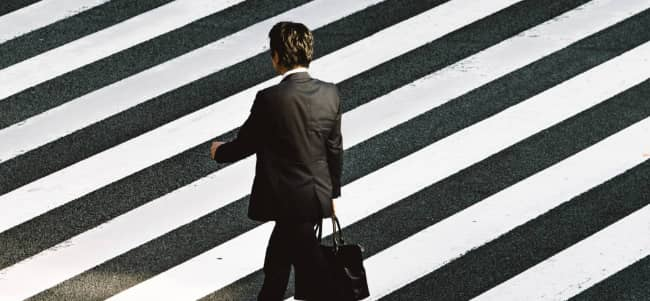
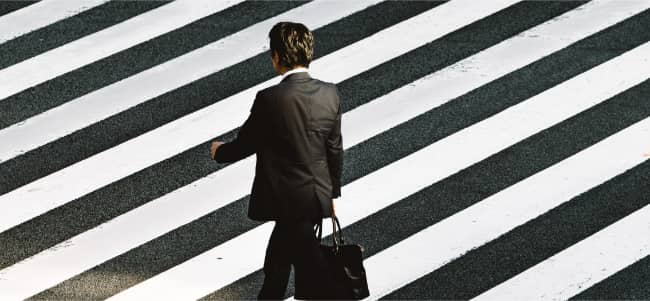
perf(images): prefer use of webp images and use resized images for tablets

diff --git a/index.html b/index.html
@@ -81,8 +81,12 @@
                 media="(max-width: 650px)"
                 srcset="./assets/images/slider/ryoji-iwata.mobile.jpg"
               />
+              <source
+                media="(max-width: 1000px)"
+                srcset="./assets/images/slider/ryoji-iwata.tablet.webp"
+              />
               <img
-                src="./assets/images/slider/ryoji-iwata.jpg"
+                src="./assets/images/slider/ryoji-iwata.webp"
                 class="d-block w-100"
                 alt="..."
               />
@@ -92,10 +96,14 @@
             <picture>
               <source
                 media="(max-width: 650px)"
-                srcset="./assets/images/slider/nicholas-green.mobile.jpg"
+                srcset="./assets/images/slider/nicholas-green.mobile.webp"
+              />
+              <source
+                media="(max-width: 1000px)"
+                srcset="./assets/images/slider/nicholas-green.tablet.webp"
               />
               <img
-                src="./assets/images/slider/nicholas-green.jpg"
+                src="./assets/images/slider/nicholas-green.webp"
                 class="d-block w-100"
                 alt="..."
               />
@@ -105,7 +113,11 @@
             <picture>
               <source
                 media="(max-width: 650px)"
-                srcset="./assets/images/slider/edward-cisneros.mobile.jpg"
+                srcset="./assets/images/slider/edward-cisneros.mobile.webp"
+              />
+              <source
+                media="(max-width: 1000px)"
+                srcset="./assets/images/slider/edward-cisneros.tablet.webp"
               />
               <img
                 src="./assets/images/slider/edward-cisneros.jpg"
@@ -137,7 +149,17 @@
     </div>
     <div id="about">
       <div class="picture left">
-        <img src="./assets/images/nina.png" />
+        <picture>
+          <source
+            media="(max-width: 650px)"
+            srcset="./assets/images/nina.mobile.webp"
+          />
+          <source
+            media="(max-width: 1000px)"
+            srcset="./assets/images/nina.tablet.webp"
+          />
+          <img src="./assets/images/nina.webp" />
+        </picture>
       </div>
       <div id="about-me">
         <h3 class="about-me__title">A propos de moi</h3>
@@ -165,47 +187,47 @@
           <img
             data-gallery-tag="Concert"
             class="gallery-item"
-            src="./assets/images/gallery/concerts/aaron-paul.jpg"
+            src="./assets/images/gallery/concerts/aaron-paul.webp"
           />
           <img
             data-gallery-tag="Entreprises"
             class="gallery-item"
-            src="./assets/images/gallery/entreprise/ali-morshedlou.jpg"
+            src="./assets/images/gallery/entreprise/ali-morshedlou.webp"
           />
           <img
             data-gallery-tag="Entreprises"
             class="gallery-item"
-            src="./assets/images/gallery/entreprise/jason-goodman.jpg"
+            src="./assets/images/gallery/entreprise/jason-goodman.webp"
           />
           <img
             data-gallery-tag="Mariages"
             class="gallery-item"
-            src="./assets/images/gallery/mariage/hannah-busing.jpg"
+            src="./assets/images/gallery/mariage/hannah-busing.webp"
           />
           <img
             data-gallery-tag="Portrait"
             class="gallery-item"
-            src="./assets/images/gallery/portraits/ade-tunji.jpg"
+            src="./assets/images/gallery/portraits/ade-tunji.webp"
           />
           <img
             data-gallery-tag="Mariages"
             class="gallery-item"
-            src="./assets/images/gallery/mariage/jakob-owens.jpg"
+            src="./assets/images/gallery/mariage/jakob-owens.webp"
           />
           <img
             data-gallery-tag="Portrait"
             class="gallery-item"
-            src="./assets/images/gallery/portraits/nino-van-prattenburg.jpg"
+            src="./assets/images/gallery/portraits/nino-van-prattenburg.webp"
           />
           <img
             data-gallery-tag="Concert"
             class="gallery-item"
-            src="./assets/images/gallery/concerts/austin-neill.jpg"
+            src="./assets/images/gallery/concerts/austin-neill.webp"
           />
           <img
             data-gallery-tag="Entreprises"
             class="gallery-item"
-            src="./assets/images/gallery/entreprise/mateus-campos-felipe.jpg"
+            src="./assets/images/gallery/entreprise/mateus-campos-felipe.webp"
           />
         </div>
       </div>
@@ -303,7 +325,17 @@
           </form>
         </div>
         <div class="picture right">
-          <img src="./assets/images/camera.png" />
+          <picture>
+            <source
+              media="(max-width: 650px)"
+              srcset="./assets/images/camera.mobile.webp"
+            />
+            <source
+              media="(max-width: 1000px)"
+              srcset="./assets/images/camera.tablet.webp"
+            />
+            <img src="./assets/images/camera.webp" />
+          </picture>
         </div>
       </div>
     </div>
